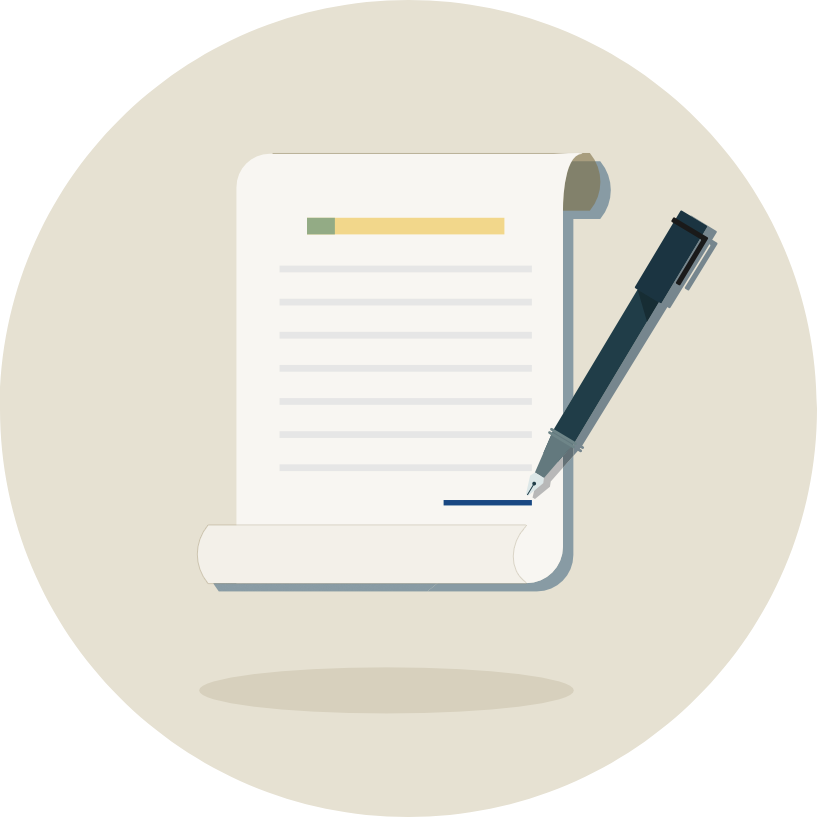
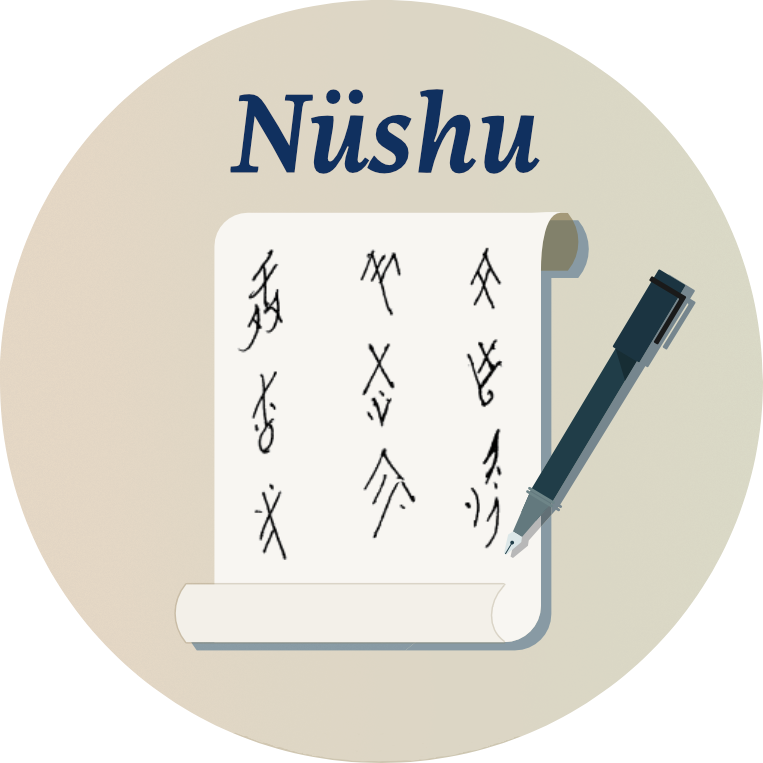
Project renamed.

diff --git a/README.md b/README.md
@@ -1,13 +1,15 @@
 
 <p align="center">
-   <img width="400" src="https://raw.githubusercontent.com/wheredoesyourmindgo/github-paper-coffee-vscode-theme/master/images/logo.png" />
+   <img width="400" src="https://raw.githubusercontent.com/wheredoesyourmindgo/nushu-vscode-theme/master/images/logo.png" />
 </p>
 
 <p align="center" style="padding:16px 0;font-size:32px;">🐙🐱📜☕</p>
 
-GitHub Paper Coffee is a fork of the VSCode [Github theme](https://github.com/primer/github-vscode-theme) featuring the [Pen Paper Coffee](https://github.com/nylki/pen-paper-coffee-syntax) off-white background.
+Nüshu is a fork of the VSCode [Github theme](https://github.com/primer/github-vscode-theme) featuring the [Pen Paper Coffee](https://github.com/nylki/pen-paper-coffee-syntax) off-white background.
 
 ## Attribution
+
+The project name came from the [Remembering Nüshu, the 19th-Century Chinese Script Only Women Could Write](https://www.atlasobscura.com/articles/nushu-chinese-script-women)
 
 The font used in this README's title (logo) is [Kiperman](https://www.harbortype.com/fonts/kiperman/) from Harbor Type.
 
